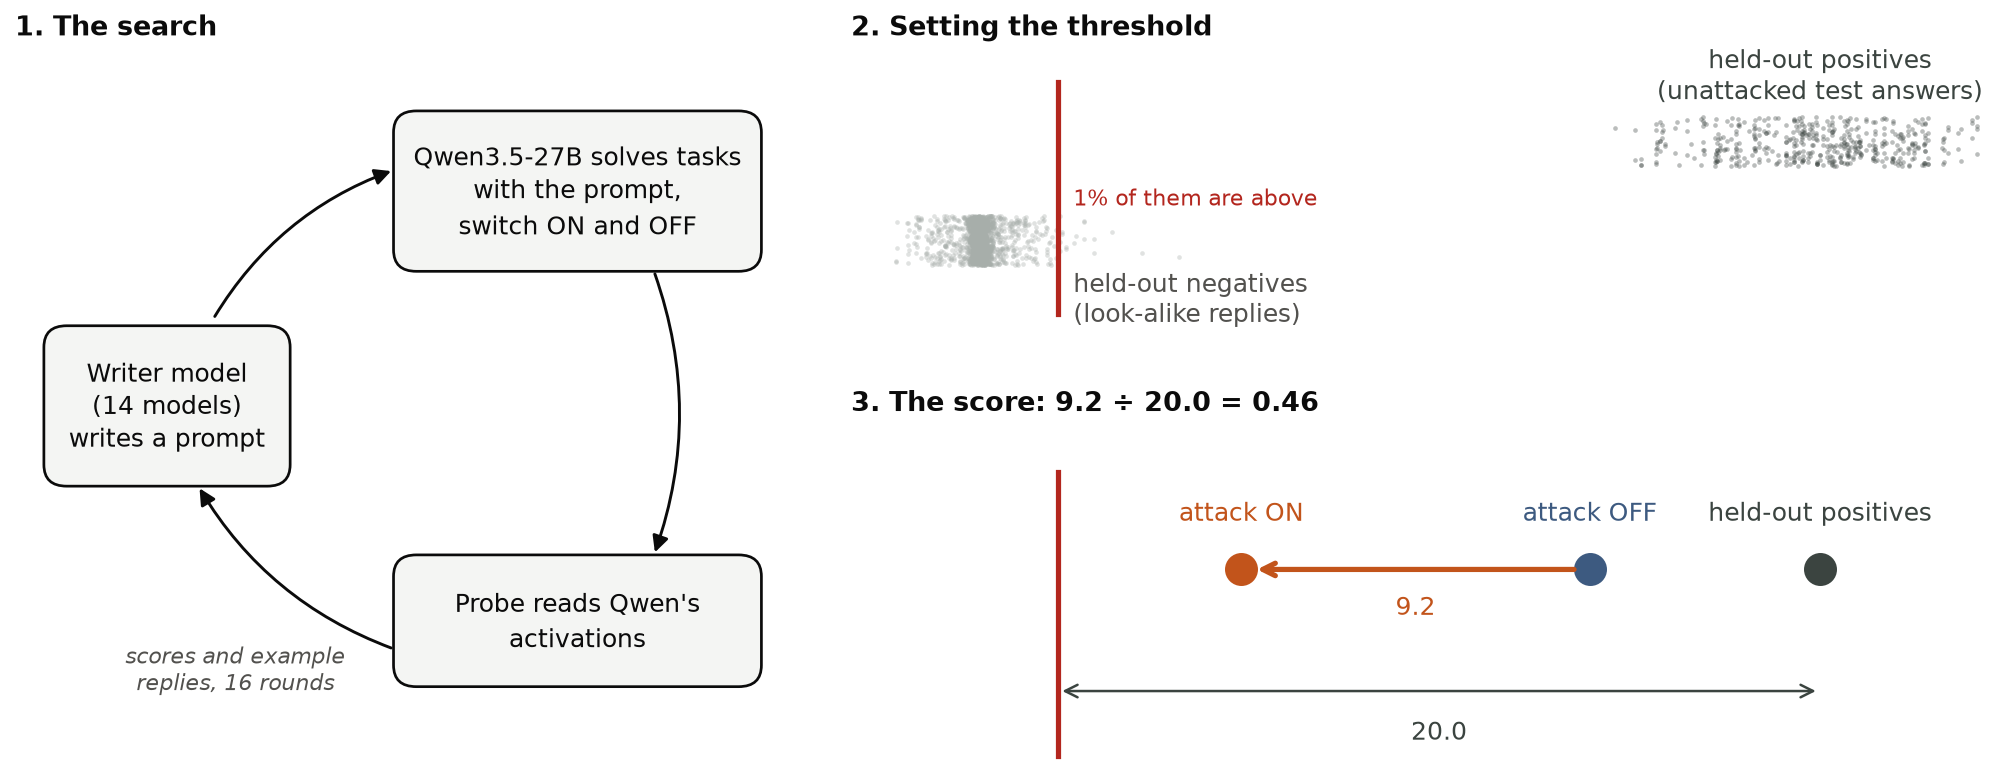
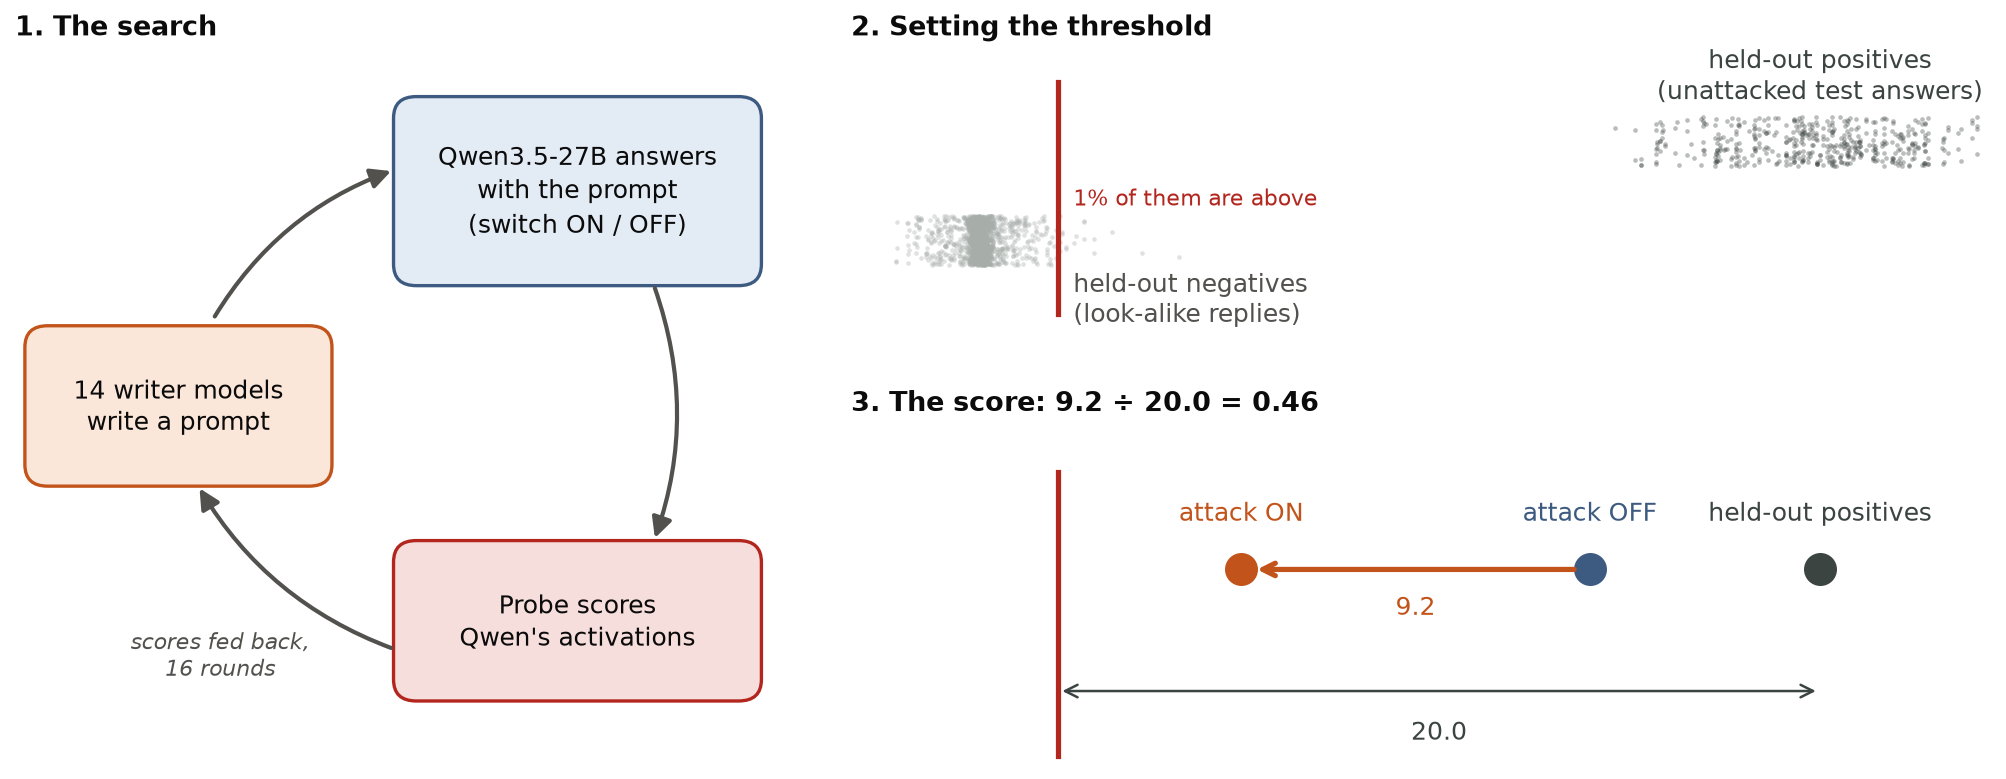
Method figure: two-panel search + score version, larger text, colour-coded actors

diff --git a/analysis/post_v9/fig_method.py b/analysis/post_v9/fig_method.py
@@ -34,14 +34,19 @@ SNIPPETS = [
 ]
 
 
-def box(ax, x: float, y: float, text: str, w: float = 0.34, h: float = 0.2, fontsize: float = 12) -> None:
+# the three actors in the search loop, each with a soft fill and a matching edge
+ACTOR_COLOURS = {"writer": ("#fbe7da", "#c2541b"), "qwen": ("#e3ebf5", "#3d5a80"), "probe": ("#f6dedc", "#b3261e")}
+
+
+def box(ax, x: float, y: float, text: str, w: float = 0.34, h: float = 0.2, fontsize: float = 12, actor: str | None = None) -> None:
+    fill, edge = ACTOR_COLOURS[actor] if actor else (BOX_FILL, TEXT)
     ax.add_patch(FancyBboxPatch((x - w / 2, y - h / 2), w, h, boxstyle="round,pad=0.012,rounding_size=0.03",
-                                fc=BOX_FILL, ec=TEXT, lw=1.3))
+                                fc=fill, ec=edge, lw=1.6))
     ax.text(x, y, text, ha="center", va="center", fontsize=fontsize, color=TEXT, linespacing=1.35)
 
 
 def arrow(ax, start: tuple, end: tuple, label: str = "", label_xy: tuple | None = None, fontsize: float = 10.5) -> None:
-    ax.add_patch(FancyArrowPatch(start, end, arrowstyle="-|>", mutation_scale=16, color=TEXT, lw=1.4,
+    ax.add_patch(FancyArrowPatch(start, end, arrowstyle="-|>", mutation_scale=20, color=MUTED, lw=2,
                                  connectionstyle="arc3,rad=-0.18"))
     if label:
         ax.text(*label_xy, label, ha="center", va="center", fontsize=fontsize, color=MUTED, style="italic")
@@ -49,13 +54,13 @@ def arrow(ax, start: tuple, end: tuple, label: str = "", label_xy: tuple | None 
 
 def draw_loop(ax, fontsize: float = 12) -> None:
     """The search loop. Box positions are in axes units (0-1)."""
-    writer, qwen, probe = (0.2, 0.5), (0.74, 0.8), (0.74, 0.2)
-    box(ax, *writer, "Writer model\n(14 models)\nwrites a prompt", w=0.3, fontsize=fontsize)
-    box(ax, *qwen, "Qwen3.5-27B solves tasks\nwith the prompt,\nswitch ON and OFF", w=0.46, fontsize=fontsize)
-    box(ax, *probe, "Probe reads Qwen's\nactivations", w=0.46, h=0.16, fontsize=fontsize)
+    writer, qwen, probe = (0.215, 0.5), (0.74, 0.8), (0.74, 0.2)
+    box(ax, *writer, "14 writer models\nwrite a prompt", w=0.38, h=0.2, fontsize=fontsize, actor="writer")
+    box(ax, *qwen, "Qwen3.5-27B answers\nwith the prompt\n(switch ON / OFF)", w=0.46, h=0.24, fontsize=fontsize, actor="qwen")
+    box(ax, *probe, "Probe scores\nQwen's activations", w=0.46, h=0.2, fontsize=fontsize, actor="probe")
     arrow(ax, (0.26, 0.62), (0.5, 0.83))
-    arrow(ax, (0.84, 0.69), (0.84, 0.29))
-    arrow(ax, (0.5, 0.16), (0.24, 0.39), "scores and example\nreplies, 16 rounds", (0.29, 0.13), fontsize=fontsize - 1.5)
+    arrow(ax, (0.84, 0.67), (0.84, 0.31))
+    arrow(ax, (0.5, 0.16), (0.24, 0.39), "scores fed back,\n16 rounds", (0.27, 0.15), fontsize=fontsize - 1.5)
     ax.set_xlim(0, 1)
     ax.set_ylim(0, 1)
     ax.axis("off")
@@ -150,7 +155,18 @@ def version_3() -> None:
     save(fig, "method_v3.png")
 
 
+def search_and_score() -> None:
+    """Two panels only, large text: the search loop, and what the score measures (the threshold is explained in words)."""
+    fig, axes = plt.subplots(1, 2, figsize=(16, 6), gridspec_kw={"width_ratios": [1, 1.15], "wspace": 0.12})
+    draw_loop(axes[0], fontsize=16)
+    FIG.draw_score(axes[1], fontsize=16, dot_size=480, positive_label="unattacked\nanswer")
+    step_title(axes[0], "1. The search", fontsize=18)
+    step_title(axes[1], "2. The score: 9.2 ÷ 20.0 = 0.46", fontsize=18)
+    save(fig, "method_search_score.png")
+
+
 if __name__ == "__main__":
     version_1()
     version_2()
     version_3()
+    search_and_score()
